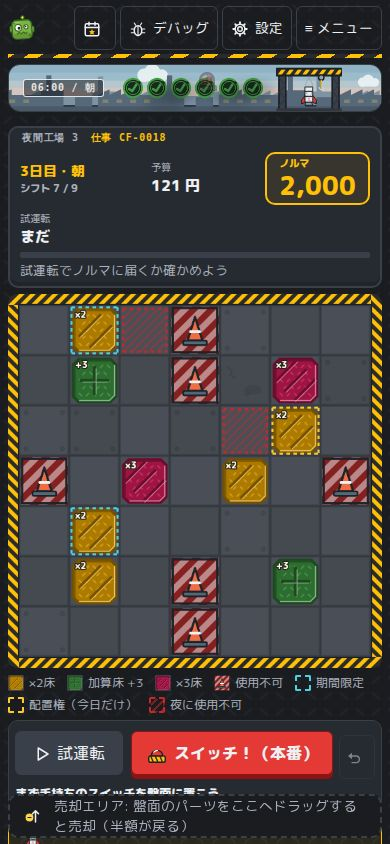
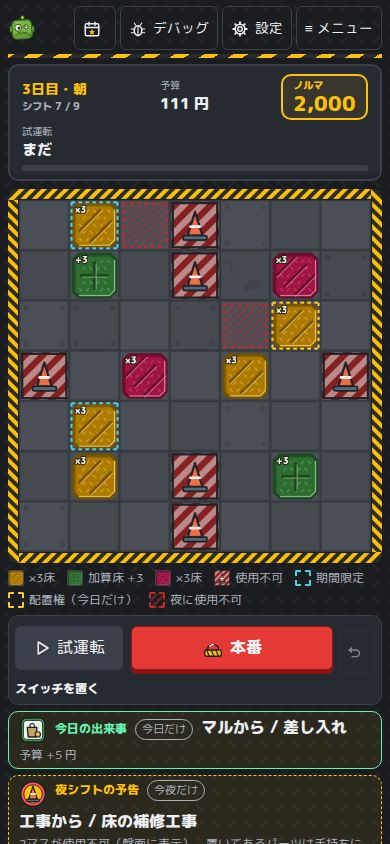
床の凡例: 磨いた床（×2床がレリックで強くなった）を ×3床と見分けられる名前に。見直し後の撮影
Claude-Session: https://claude.ai/code/session_0114RMmfSAyXuJ1DmH6Wx86W

diff --git a/apps/client/src/ui/FloorLegend.tsx b/apps/client/src/ui/FloorLegend.tsx
@@ -1,7 +1,7 @@
 /**
  * 床の凡例（盤面の下）: いま盤面にある床の種類・期間限定の枠・夜の予告だけを短く並べる
  */
-import type { FloorCell, FloorParams } from '@chain-factory/sim';
+import { BALANCE, type FloorCell, type FloorParams } from '@chain-factory/sim';
 import { BOARD_ASSETS } from '../assets/manifest';
 import { useI18n } from '../i18n';
 import { floorLegendEntries, type FloorLegendEntry } from '../state/floorLegend';
@@ -24,7 +24,11 @@ export function FloorLegend({ floor, upcomingBlocked, params }: Props) {
   const label = (e: FloorLegendEntry) => {
     switch (e.kind) {
       case 'tile':
-        return t(`legend.tile.${e.tile}`, amounts);
+        // ×2床がレリック（磨いた床）で強くなっているときは、×3床と見分けがつくよう名前を変える
+        return e.tile === 'double' &&
+          params.doubleMultiplier !== BALANCE.floorParams.doubleMultiplier
+          ? t('legend.tile.doublePolished', amounts)
+          : t(`legend.tile.${e.tile}`, amounts);
       case 'limited':
         return t('legend.limited');
       case 'item':

diff --git a/docs/ui-review/after/report.md b/docs/ui-review/after/report.md
@@ -1,54 +1,44 @@
 # UI の確認（after）
 
-撮影: 2026-10-07T23:10:53.828Z・http://localhost:5173/
+撮影: 2026-10-21T10:19:40.544Z・http://localhost:5173/
 
 | 画面サイズ | 言語 | 状態 | 横スクロール | ヘッダーのはみ出し | 画像 |
 |---|---|---|---|---|---|
-| 1920x1080 | ja | idle | なし | なし | [1920x1080-ja-idle.jpg](1920x1080-ja-idle.jpg) |
-| 1920x1080 | ja | selected | なし | なし | [1920x1080-ja-selected.jpg](1920x1080-ja-selected.jpg) |
-| 1920x1080 | ja | poor | なし | なし | [1920x1080-ja-poor.jpg](1920x1080-ja-poor.jpg) |
-| 1920x1080 | ja | trial-done | なし | なし | [1920x1080-ja-trial-done.jpg](1920x1080-ja-trial-done.jpg) |
-| 1920x1080 | ja | trial-then-changed | なし | なし | [1920x1080-ja-trial-then-changed.jpg](1920x1080-ja-trial-then-changed.jpg) |
-| 1920x1080 | ja | playing | なし | なし | [1920x1080-ja-playing.jpg](1920x1080-ja-playing.jpg) |
-| 1920x1080 | ja | commit-failed | なし | なし | [1920x1080-ja-commit-failed.jpg](1920x1080-ja-commit-failed.jpg) |
-| 1920x1080 | ja | day3-floors | なし | なし | [1920x1080-ja-day3-floors.jpg](1920x1080-ja-day3-floors.jpg) |
-| 1920x1080 | ja | day2-event | なし | なし | [1920x1080-ja-day2-event.jpg](1920x1080-ja-day2-event.jpg) |
-| 1920x1080 | en | idle | なし | なし | [1920x1080-en-idle.jpg](1920x1080-en-idle.jpg) |
-| 1920x1080 | en | day3-floors | なし | なし | [1920x1080-en-day3-floors.jpg](1920x1080-en-day3-floors.jpg) |
-| 1366x768 | ja | idle | なし | なし | [1366x768-ja-idle.jpg](1366x768-ja-idle.jpg) |
-| 1366x768 | ja | selected | なし | なし | [1366x768-ja-selected.jpg](1366x768-ja-selected.jpg) |
-| 1366x768 | ja | poor | なし | なし | [1366x768-ja-poor.jpg](1366x768-ja-poor.jpg) |
-| 1366x768 | ja | trial-done | なし | なし | [1366x768-ja-trial-done.jpg](1366x768-ja-trial-done.jpg) |
-| 1366x768 | ja | trial-then-changed | なし | なし | [1366x768-ja-trial-then-changed.jpg](1366x768-ja-trial-then-changed.jpg) |
-| 1366x768 | ja | playing | なし | なし | [1366x768-ja-playing.jpg](1366x768-ja-playing.jpg) |
-| 1366x768 | ja | commit-failed | なし | なし | [1366x768-ja-commit-failed.jpg](1366x768-ja-commit-failed.jpg) |
-| 1366x768 | ja | day3-floors | なし | なし | [1366x768-ja-day3-floors.jpg](1366x768-ja-day3-floors.jpg) |
-| 1366x768 | ja | day2-event | なし | なし | [1366x768-ja-day2-event.jpg](1366x768-ja-day2-event.jpg) |
-| 1366x768 | en | idle | なし | なし | [1366x768-en-idle.jpg](1366x768-en-idle.jpg) |
-| 1366x768 | en | day3-floors | なし | なし | [1366x768-en-day3-floors.jpg](1366x768-en-day3-floors.jpg) |
 | 1280x800 | ja | idle | なし | なし | [1280x800-ja-idle.jpg](1280x800-ja-idle.jpg) |
 | 1280x800 | ja | selected | なし | なし | [1280x800-ja-selected.jpg](1280x800-ja-selected.jpg) |
 | 1280x800 | ja | poor | なし | なし | [1280x800-ja-poor.jpg](1280x800-ja-poor.jpg) |
+| 1280x800 | ja | shop-rarity | なし | なし | [1280x800-ja-shop-rarity.jpg](1280x800-ja-shop-rarity.jpg) |
+| 1280x800 | ja | golden | なし | なし | [1280x800-ja-golden.jpg](1280x800-ja-golden.jpg) |
+| 1280x800 | ja | golden-select | なし | なし | [1280x800-ja-golden-select.jpg](1280x800-ja-golden-select.jpg) |
+| 1280x800 | ja | golden-merged | なし | なし | [1280x800-ja-golden-merged.jpg](1280x800-ja-golden-merged.jpg) |
 | 1280x800 | ja | trial-done | なし | なし | [1280x800-ja-trial-done.jpg](1280x800-ja-trial-done.jpg) |
 | 1280x800 | ja | trial-then-changed | なし | なし | [1280x800-ja-trial-then-changed.jpg](1280x800-ja-trial-then-changed.jpg) |
 | 1280x800 | ja | playing | なし | なし | [1280x800-ja-playing.jpg](1280x800-ja-playing.jpg) |
 | 1280x800 | ja | commit-failed | なし | なし | [1280x800-ja-commit-failed.jpg](1280x800-ja-commit-failed.jpg) |
+| 1280x800 | ja | run-failed | なし | なし | [1280x800-ja-run-failed.jpg](1280x800-ja-run-failed.jpg) |
+| 1280x800 | ja | run-failed-ascension | なし | なし | [1280x800-ja-run-failed-ascension.jpg](1280x800-ja-run-failed-ascension.jpg) |
+| 1280x800 | ja | breakdown | なし | なし | [1280x800-ja-breakdown.jpg](1280x800-ja-breakdown.jpg) |
+| 1280x800 | ja | teleporter-hover | なし | なし | [1280x800-ja-teleporter-hover.jpg](1280x800-ja-teleporter-hover.jpg) |
+| 1280x800 | ja | magnet-preview | なし | なし | [1280x800-ja-magnet-preview.jpg](1280x800-ja-magnet-preview.jpg) |
 | 1280x800 | ja | day3-floors | なし | なし | [1280x800-ja-day3-floors.jpg](1280x800-ja-day3-floors.jpg) |
+| 1280x800 | ja | day2-relic | なし | なし | [1280x800-ja-day2-relic.jpg](1280x800-ja-day2-relic.jpg) |
 | 1280x800 | ja | day2-event | なし | なし | [1280x800-ja-day2-event.jpg](1280x800-ja-day2-event.jpg) |
-| 1280x800 | en | idle | なし | なし | [1280x800-en-idle.jpg](1280x800-en-idle.jpg) |
-| 1280x800 | en | day3-floors | なし | なし | [1280x800-en-day3-floors.jpg](1280x800-en-day3-floors.jpg) |
 | 390x844 | ja | idle | なし | なし | [390x844-ja-idle.jpg](390x844-ja-idle.jpg) |
 | 390x844 | ja | selected | なし | なし | [390x844-ja-selected.jpg](390x844-ja-selected.jpg) |
 | 390x844 | ja | poor | なし | なし | [390x844-ja-poor.jpg](390x844-ja-poor.jpg) |
+| 390x844 | ja | shop-rarity | なし | なし | [390x844-ja-shop-rarity.jpg](390x844-ja-shop-rarity.jpg) |
+| 390x844 | ja | golden | なし | なし | [390x844-ja-golden.jpg](390x844-ja-golden.jpg) |
+| 390x844 | ja | golden-select | なし | なし | [390x844-ja-golden-select.jpg](390x844-ja-golden-select.jpg) |
+| 390x844 | ja | golden-merged | なし | なし | [390x844-ja-golden-merged.jpg](390x844-ja-golden-merged.jpg) |
 | 390x844 | ja | trial-done | なし | なし | [390x844-ja-trial-done.jpg](390x844-ja-trial-done.jpg) |
 | 390x844 | ja | trial-then-changed | なし | なし | [390x844-ja-trial-then-changed.jpg](390x844-ja-trial-then-changed.jpg) |
 | 390x844 | ja | playing | なし | なし | [390x844-ja-playing.jpg](390x844-ja-playing.jpg) |
 | 390x844 | ja | commit-failed | なし | なし | [390x844-ja-commit-failed.jpg](390x844-ja-commit-failed.jpg) |
+| 390x844 | ja | run-failed | なし | なし | [390x844-ja-run-failed.jpg](390x844-ja-run-failed.jpg) |
+| 390x844 | ja | run-failed-ascension | なし | なし | [390x844-ja-run-failed-ascension.jpg](390x844-ja-run-failed-ascension.jpg) |
+| 390x844 | ja | breakdown | なし | なし | [390x844-ja-breakdown.jpg](390x844-ja-breakdown.jpg) |
+| 390x844 | ja | teleporter-hover | なし | なし | [390x844-ja-teleporter-hover.jpg](390x844-ja-teleporter-hover.jpg) |
+| 390x844 | ja | magnet-preview | なし | なし | [390x844-ja-magnet-preview.jpg](390x844-ja-magnet-preview.jpg) |
 | 390x844 | ja | day3-floors | なし | なし | [390x844-ja-day3-floors.jpg](390x844-ja-day3-floors.jpg) |
+| 390x844 | ja | day2-relic | なし | なし | [390x844-ja-day2-relic.jpg](390x844-ja-day2-relic.jpg) |
 | 390x844 | ja | day2-event | なし | なし | [390x844-ja-day2-event.jpg](390x844-ja-day2-event.jpg) |
-| 390x844 | en | idle | なし | なし | [390x844-en-idle.jpg](390x844-en-idle.jpg) |
-| 390x844 | en | day3-floors | なし | なし | [390x844-en-day3-floors.jpg](390x844-en-day3-floors.jpg) |
-| 1280x800-zoom200 | ja | idle | なし | なし | [1280x800-zoom200-ja-idle.jpg](1280x800-zoom200-ja-idle.jpg) |
-| 1280x800-zoom200 | ja | day3-floors | なし | なし | [1280x800-zoom200-ja-day3-floors.jpg](1280x800-zoom200-ja-day3-floors.jpg) |
-| 1280x800-zoom200 | en | idle | なし | なし | [1280x800-zoom200-en-idle.jpg](1280x800-zoom200-en-idle.jpg) |
-| 1280x800-zoom200 | en | day3-floors | なし | なし | [1280x800-zoom200-en-day3-floors.jpg](1280x800-zoom200-en-day3-floors.jpg) |
